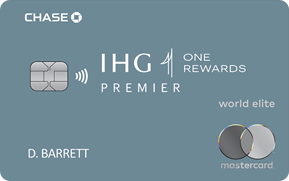
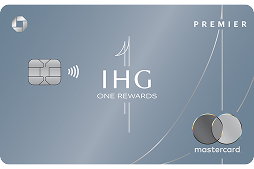
Thẻ Mỹ: cập nhật dòng thẻ IHG® sau đợt Chase® đổi ngày 01/10/2026
Thêm Premier Select; Traveler → IHG® One Rewards Credit Card, Premier Business →
IHG® One Rewards Business Credit Card (slug cũ redirect 308). Offer ra mắt có hạn
18/11/2026 nên cả bốn thẻ vào mục Elevated. Ảnh thẻ thiết kế mới.

diff --git a/src/lib/us-credit-cards.ts b/src/lib/us-credit-cards.ts
@@ -241,7 +241,7 @@ const VERIFIED_3 = "2026-09-24";
  * không in số welcome bonus cho browser tự động (xem AGENTS.md).
  */
 const REVERIFIED = "2026-09-30";
-/** Đợt thẻ thêm ngày 01/10/2026: ba thẻ IHG® và thẻ Aeroplan® của Chase®. */
+/** Đợt thẻ thêm ngày 01/10/2026: bốn thẻ IHG® (sau đợt đổi cùng ngày) và thẻ Aeroplan® của Chase®. */
 const VERIFIED_4 = "2026-10-01";
 
 const AMEX_FTF_27: CanadianAnswer = {
@@ -293,12 +293,20 @@ const IHG_FROM_CANADA: CanadianAnswer = {
 };
 
 /**
- * Điều kiện bonus in trên trang hai thẻ IHG® cá nhân (đọc 01/10/2026): không
- * đang giữ thẻ IHG® nào, chưa nhận bonus trong 24 tháng, thẻ doanh nghiệp
- * không tính. Hệ quả là giữ được một trong hai thẻ cá nhân, không phải cả hai.
+ * Điều kiện in trên trang thẻ Premier và thẻ không annual fee (đọc sau đợt đổi
+ * 01/10/2026): không đang giữ thẻ IHG® cá nhân nào, chưa nhận bonus trong 24
+ * tháng, thẻ doanh nghiệp không tính. Thẻ Premier Select chỉ ghi điều kiện về
+ * chính nó, nên có câu riêng.
  */
 const IHG_PERSONAL_WATCH_OUT =
-  "Thẻ này chịu luật 5/24 của Chase®. Chỉ mở được khi bạn không đang giữ thẻ IHG® cá nhân nào (Premier hoặc Traveler) và chưa nhận bonus thẻ IHG® cá nhân trong 24 tháng; thẻ doanh nghiệp không tính vào luật này.";
+  "Thẻ này chịu luật 5/24 của Chase®. Chỉ mở được khi bạn không đang giữ thẻ IHG® cá nhân nào (kể cả Premier Select) và chưa nhận bonus thẻ IHG® cá nhân trong 24 tháng; thẻ doanh nghiệp không tính vào luật này.";
+
+/**
+ * Hạn của welcome offer ra mắt cả dòng thẻ IHG® ("Apply by 11/18/2026" trên cả
+ * bốn trang Chase®). Qua ngày này bốn thẻ tự rời mục Elevated, nhưng số bonus
+ * vẫn phải rà tay.
+ */
+const IHG_LAUNCH_OFFER_ENDS = "2026-11-18";
 
 const BONVOY_FROM_CANADA: CanadianAnswer = {
   short: "Có",
@@ -1004,7 +1012,7 @@ const US_CARD_DATA: UsCardData[] = [
     annualFeeUsd: 795,
     rewardsCurrency: "Ultimate Rewards®",
     headline:
-      "Bản doanh nghiệp của Sapphire Reserve®: welcome bonus lớn nhất trong các thẻ Chase® ở đây, đổi lại mức chi tiêu cũng lớn nhất.",
+      "Bản doanh nghiệp của Sapphire Reserve®: 200,000 điểm Ultimate Rewards® khi mở thẻ, đổi lại mức chi tiêu lớn nhất trong các thẻ Chase® ở đây.",
     editorsTake:
       "200,000 điểm là con số rất lớn, nhưng phải chi $30,000 USD trong 6 tháng — chỉ hợp lý nếu doanh nghiệp bạn có dòng chi tiêu thật ở Mỹ. Chase® ghi đây là offer trở lại từ mức 150,000 điểm, không công bố ngày kết thúc.",
     keyBenefits: [
@@ -1308,28 +1316,70 @@ const US_CARD_DATA: UsCardData[] = [
     needsVerification: false,
   },
   {
+    slug: "ihg-one-rewards-premier-select",
+    name: "IHG® One Rewards Premier Select Credit Card",
+    issuerId: "chase",
+    category: "hotel",
+    business: false,
+    elevatedBonus: true,
+    cardImage: "/images/us-cards/ihg-one-rewards-premier-select.png",
+    welcomeBonus: "200,000 điểm IHG® One Rewards",
+    minimumSpendUsd: 5_000,
+    offerPeriod: "3 tháng đầu",
+    annualFeeUsd: 350,
+    rewardsCurrency: "IHG® One Rewards",
+    expiresAt: IHG_LAUNCH_OFFER_ENDS,
+    headline:
+      "Thẻ IHG® cao cấp ra mắt 01/10/2026: hạng Platinum Elite tự động, đêm miễn phí tới 60,000 điểm mỗi năm và 20 Elite Night Credits.",
+    editorsTake:
+      "Welcome bonus 200,000 điểm sau khi chi $5,000 USD trong 3 tháng là offer ra mắt, chỉ apply tới 18/11/2026. Annual fee $350 USD chỉ hợp lý nếu bạn dùng hết credit ăn uống ở khách sạn IHG® và credit hãng bay — credit ăn uống chỉ dùng ở khách sạn IHG®, credit hãng bay đòi mua vé thẳng với hãng từ $250 USD mỗi năm.",
+    keyBenefits: [
+      "12x điểm ở khách sạn IHG®; 6x ở nhà hàng và mọi chi tiêu du lịch khác (kể cả rideshare); 3x cho mọi chi tiêu khác",
+      "Đêm miễn phí mỗi năm gia hạn (khách sạn tới 60,000 điểm/đêm, bù thêm điểm được); chi $40,000 USD trong năm được thêm một đêm",
+      "Hạng Platinum Elite tự động; chi $25,000 USD trong năm lên Diamond Elite",
+      "Credit ăn uống tới $300 USD mỗi năm ở khách sạn IHG® ($75 USD mỗi quý) và credit hãng bay $200 USD khi mua vé thẳng với hãng từ $250 USD trong năm (tới 31/12/2027)",
+      "20 Elite Night Credits mỗi năm, thêm 2 cho mỗi $5,000 USD chi tiêu; đổi điểm 3 đêm liên tiếp được tặng đêm thứ 4",
+      "Credit phí Global Entry, TSA PreCheck® hoặc NEXUS™ tới $120 USD, 4 năm một lần; không phí giao dịch ngoại tệ",
+    ],
+    tags: ["Hotel", "Đêm miễn phí", "Không phí ngoại tệ"],
+    canada: {
+      itin: ITIN_REQUIRED,
+      usCreditHistory: HISTORY_REQUIRED,
+      usAddress: ADDRESS_REQUIRED,
+      foreignTransactionFee: NO_FTF,
+      pointsFromCanada: IHG_FROM_CANADA,
+      watchOut:
+        "Thẻ này chịu luật 5/24 của Chase®. Điều kiện in trên trang chỉ nói về chính thẻ này: không đang giữ nó và chưa nhận bonus của nó trong 24 tháng. Ngược lại, đang giữ thẻ này thì không mở được bản Premier hay bản không annual fee, vì hai thẻ đó đòi bạn không giữ thẻ IHG® cá nhân nào.",
+    },
+    applyUrl: "https://creditcards.chase.com/a1/ihg/PremierSelectNAEPQ410",
+    lastUpdated: VERIFIED_4,
+    verifiedOn: VERIFIED_4,
+    needsVerification: false,
+  },
+  {
     slug: "ihg-one-rewards-premier",
     name: "IHG® One Rewards Premier Credit Card",
     issuerId: "chase",
     category: "hotel",
     business: false,
-    elevatedBonus: false,
+    elevatedBonus: true,
     cardImage: "/images/us-cards/ihg-one-rewards-premier.png",
-    welcomeBonus: "140,000 điểm IHG® One Rewards",
+    welcomeBonus: "180,000 điểm IHG® One Rewards",
     minimumSpendUsd: 3_000,
     offerPeriod: "3 tháng đầu",
-    annualFeeUsd: 99,
+    annualFeeUsd: 150,
     rewardsCurrency: "IHG® One Rewards",
+    expiresAt: IHG_LAUNCH_OFFER_ENDS,
     headline:
-      "Thẻ khách sạn IHG® của Chase®: hạng Platinum Elite tự động và một đêm miễn phí mỗi năm gia hạn.",
+      "Thẻ IHG® bậc giữa của Chase®: hạng Gold Elite tự động, đêm miễn phí tới 50,000 điểm mỗi năm và 15 Elite Night Credits.",
     editorsTake:
-      "Welcome bonus 140,000 điểm sau khi chi $3,000 USD trong 3 tháng — Chase® quy ra tới 4 đêm ở khách sạn IHG®. Đêm miễn phí hằng năm cộng ưu đãi đổi 3 đêm tặng đêm thứ 4 thường bù được $99 USD annual fee nếu bạn ở IHG® ít nhất một lần mỗi năm.",
+      "Welcome bonus 180,000 điểm sau khi chi $3,000 USD trong 3 tháng — mức chi thấp so với số điểm, chỉ apply tới 18/11/2026. Thẻ mở mới từ 01/10/2026 có hạng Gold Elite (trước là Platinum) và annual fee $150 USD (trước là $99 USD; người đang giữ thẻ được điều chỉnh phí trong năm 2027), đổi lại đêm miễn phí hằng năm nâng lên 50,000 điểm.",
     keyBenefits: [
-      "Đêm miễn phí mỗi năm gia hạn (khách sạn tới 40,000 điểm/đêm, bù thêm điểm được cho khách sạn đắt hơn)",
-      "Hạng Platinum Elite tự động; chi $40,000 USD trong năm lên Diamond Elite",
-      "Đổi điểm 3 đêm liên tiếp được tặng đêm thứ 4",
-      "10x điểm ở khách sạn IHG®; 5x ở du lịch, nhà hàng và trạm xăng; 3x cho mọi chi tiêu khác",
-      "Chi $20,000 USD trong năm được $100 USD credit và 10,000 điểm",
+      "10x điểm ở khách sạn IHG®; 5x ở vé máy bay mua thẳng với hãng, thuê xe, nhà hàng, siêu thị và trạm xăng; 3x cho mọi chi tiêu khác",
+      "Đêm miễn phí mỗi năm gia hạn (khách sạn tới 50,000 điểm/đêm, bù thêm điểm được)",
+      "Hạng Gold Elite tự động; chi $15,000 USD trong năm lên Platinum Elite, $40,000 USD lên Diamond Elite",
+      "Credit ăn uống tới $100 USD mỗi năm ở khách sạn IHG® ($25 USD mỗi quý) và credit hãng bay $100 USD khi mua vé thẳng với hãng từ $250 USD trong năm (tới 31/12/2027)",
+      "15 Elite Night Credits mỗi năm, thêm 2 cho mỗi $5,000 USD chi tiêu; đổi điểm 3 đêm liên tiếp được tặng đêm thứ 4",
       "Credit phí Global Entry, TSA PreCheck® hoặc NEXUS™ tới $120 USD, 4 năm một lần; không phí giao dịch ngoại tệ",
     ],
     tags: ["Hotel", "Đêm miễn phí", "Không phí ngoại tệ"],
@@ -1341,33 +1391,34 @@ const US_CARD_DATA: UsCardData[] = [
       pointsFromCanada: IHG_FROM_CANADA,
       watchOut: IHG_PERSONAL_WATCH_OUT,
     },
-    applyUrl: "https://creditcards.chase.com/travel-credit-cards/ihg-rewards-club/premier",
+    applyUrl: "https://creditcards.chase.com/a1/ihg/PremierNAEPQ410",
     lastUpdated: VERIFIED_4,
     verifiedOn: VERIFIED_4,
     needsVerification: false,
   },
   {
-    slug: "ihg-one-rewards-traveler",
-    name: "IHG® One Rewards Traveler Credit Card",
+    slug: "ihg-one-rewards",
+    name: "IHG® One Rewards Credit Card",
     issuerId: "chase",
     category: "hotel",
     business: false,
-    elevatedBonus: false,
-    cardImage: "/images/us-cards/ihg-one-rewards-traveler.png",
-    welcomeBonus: "80,000 điểm IHG® One Rewards",
+    elevatedBonus: true,
+    cardImage: "/images/us-cards/ihg-one-rewards.png",
+    welcomeBonus: "125,000 điểm IHG® One Rewards",
     minimumSpendUsd: 2_000,
     offerPeriod: "3 tháng đầu",
     annualFeeUsd: 0,
     rewardsCurrency: "IHG® One Rewards",
+    expiresAt: IHG_LAUNCH_OFFER_ENDS,
     headline:
-      "Thẻ IHG® không annual fee của Chase®: hạng Silver Elite tự động và tới 17x điểm khi ở khách sạn IHG®.",
+      "Thẻ IHG® không annual fee của Chase® (trước 01/10/2026 tên là Traveler): hạng Silver Elite tự động và 5 Elite Night Credits mỗi năm.",
     editorsTake:
-      "Welcome bonus 80,000 điểm sau khi chi $2,000 USD trong 3 tháng, không tốn annual fee. Đổi lại không có đêm miễn phí hằng năm — nếu bạn ở IHG® đều đặn thì cân nhắc bản Premier $99 USD, vì không mở được thẻ này khi đang giữ bản Premier (và ngược lại).",
+      "Welcome bonus 125,000 điểm sau khi chi $2,000 USD trong 3 tháng, không tốn annual fee, chỉ apply tới 18/11/2026. Đổi lại không có đêm miễn phí hằng năm, và từ 2027 ưu đãi đổi 3 đêm tặng đêm thứ 4 chỉ mở khi chi $5,000 USD trong một năm (dùng được hết năm đó và cả năm sau).",
     keyBenefits: [
-      "5x điểm ở khách sạn IHG®; 3x ở nhà hàng, tiện ích, một số dịch vụ streaming và trạm xăng; 2x cho mọi chi tiêu khác",
-      "Hạng Silver Elite tự động; chi $20,000 USD trong năm lên Gold Elite",
-      "Đổi điểm 3 đêm liên tiếp được tặng đêm thứ 4",
-      "Chi $10,000 USD trong năm được 10,000 điểm",
+      "5x điểm ở khách sạn IHG®; 3x ở nhà hàng, siêu thị và trạm xăng; 2x cho mọi chi tiêu khác",
+      "Hạng Silver Elite tự động; chi $15,000 USD trong năm lên Gold Elite",
+      "5 Elite Night Credits mỗi năm; chi $15,000 USD trong năm được 10,000 điểm",
+      "Đổi điểm 3 đêm liên tiếp được tặng đêm thứ 4 (từ 2027: chi $5,000 USD trong năm để mở cho hết năm đó và cả năm sau)",
       "Không annual fee, không phí giao dịch ngoại tệ",
     ],
     tags: ["Hotel", "Không annual fee", "Không phí ngoại tệ"],
@@ -1379,33 +1430,35 @@ const US_CARD_DATA: UsCardData[] = [
       pointsFromCanada: IHG_FROM_CANADA,
       watchOut: IHG_PERSONAL_WATCH_OUT,
     },
-    applyUrl: "https://creditcards.chase.com/travel-credit-cards/ihg-rewards-club/traveler",
+    applyUrl: "https://creditcards.chase.com/a1/ihg/OneRewardsNAEPQ410",
     lastUpdated: VERIFIED_4,
     verifiedOn: VERIFIED_4,
     needsVerification: false,
   },
   {
-    slug: "ihg-one-rewards-premier-business",
-    name: "IHG® One Rewards Premier Business Credit Card",
+    slug: "ihg-one-rewards-business",
+    name: "IHG® One Rewards Business Credit Card",
     issuerId: "chase",
     category: "hotel",
     business: true,
-    elevatedBonus: false,
-    cardImage: "/images/us-cards/ihg-one-rewards-premier-business.png",
-    welcomeBonus: "140,000 điểm IHG® One Rewards",
-    minimumSpendUsd: 4_000,
+    elevatedBonus: true,
+    cardImage: "/images/us-cards/ihg-one-rewards-business.png",
+    welcomeBonus: "190,000 điểm IHG® One Rewards",
+    minimumSpendUsd: 5_000,
     offerPeriod: "3 tháng đầu",
-    annualFeeUsd: 99,
+    annualFeeUsd: 200,
     rewardsCurrency: "IHG® One Rewards",
+    expiresAt: IHG_LAUNCH_OFFER_ENDS,
     headline:
-      "Bản doanh nghiệp của thẻ IHG® Premier: cùng hạng Platinum Elite và đêm miễn phí hằng năm, annual fee $99 USD.",
+      "Thẻ IHG® doanh nghiệp của Chase® (trước 01/10/2026 tên là Premier Business): hạng Platinum Elite tự động và đêm miễn phí tới 50,000 điểm mỗi năm.",
     editorsTake:
-      "Welcome bonus 140,000 điểm như bản cá nhân nhưng đòi chi $4,000 USD trong 3 tháng. Điều kiện 24 tháng in trên hai thẻ IHG® cá nhân ghi rõ không tính thẻ doanh nghiệp, và trang thẻ này không ghi điều kiện tương tự.",
+      "Welcome bonus 190,000 điểm sau khi chi $5,000 USD trong 3 tháng, chỉ apply tới 18/11/2026. Giữ hạng Platinum Elite mà bản Premier cá nhân vừa mất, và điều kiện \"không giữ thẻ IHG® cá nhân nào\" của hai thẻ cá nhân ghi rõ không tính thẻ doanh nghiệp.",
     keyBenefits: [
-      "Đêm miễn phí mỗi năm gia hạn (khách sạn tới 40,000 điểm/đêm, bù thêm điểm được cho khách sạn đắt hơn)",
-      "Hạng Platinum Elite tự động; đổi điểm 3 đêm liên tiếp được tặng đêm thứ 4",
-      "10x điểm ở khách sạn IHG®; 5x ở du lịch, nhà hàng, trạm xăng và một số chi tiêu doanh nghiệp; 3x cho mọi chi tiêu khác",
-      "Chi $20,000 USD trong năm được $100 USD credit và 10,000 điểm",
+      "10x điểm ở khách sạn IHG®; 5x ở vé máy bay mua thẳng với hãng, thuê xe, nhà hàng, quảng cáo mạng xã hội/tìm kiếm và trạm xăng; 3x cho mọi chi tiêu khác",
+      "Đêm miễn phí mỗi năm gia hạn (khách sạn tới 50,000 điểm/đêm); chi $60,000 USD trong năm được thêm một đêm",
+      "Hạng Platinum Elite tự động; từ 2027, chi $50,000 USD trong năm lên Diamond Elite",
+      "Credit ăn uống tới $100 USD mỗi năm ở khách sạn IHG®, credit hãng bay $100 USD khi mua vé thẳng với hãng từ $250 USD trong năm (tới 31/12/2027) và credit Expensify tới $100 USD mỗi năm",
+      "15 Elite Night Credits mỗi năm, thêm 2 cho mỗi $5,000 USD chi tiêu; đổi điểm 3 đêm liên tiếp được tặng đêm thứ 4",
       "Credit phí Global Entry, TSA PreCheck® hoặc NEXUS™ tới $120 USD, 4 năm một lần; không phí giao dịch ngoại tệ",
     ],
     tags: ["Hotel", "Business", "Không phí ngoại tệ"],
@@ -1417,7 +1470,7 @@ const US_CARD_DATA: UsCardData[] = [
       pointsFromCanada: IHG_FROM_CANADA,
       watchOut: "Thẻ doanh nghiệp nên không tính vào 5/24, nhưng Chase® vẫn xét 5/24 khi duyệt.",
     },
-    applyUrl: "https://creditcards.chase.com/business-credit-cards/IHG/business-premier",
+    applyUrl: "https://creditcards.chase.com/a1/ihg/BizNAEPQ410",
     lastUpdated: VERIFIED_4,
     verifiedOn: VERIFIED_4,
     needsVerification: false,

diff --git a/next.config.ts b/next.config.ts
@@ -80,6 +80,18 @@ const nextConfig: NextConfig = {
         destination: "/award-flight-finder",
         permanent: true,
       },
+      // Chase® renamed two IHG® cards on 01/10/2026, hours after they went
+      // live here under their old names (Traveler, Premier Business).
+      {
+        source: "/us-credit-cards/ihg-one-rewards-traveler",
+        destination: "/us-credit-cards/ihg-one-rewards",
+        permanent: true,
+      },
+      {
+        source: "/us-credit-cards/ihg-one-rewards-premier-business",
+        destination: "/us-credit-cards/ihg-one-rewards-business",
+        permanent: true,
+      },
     ];
   },
 };

diff --git a/AGENTS.md b/AGENTS.md
@@ -1243,13 +1243,17 @@ nghiệp phủ bốn thẻ Ink + Sapphire Reserve for Business℠, Capital One®
 Venture X/Venture — thẻ khác giữ link công khai (`sourceUrl` giữ trang sản phẩm
 khi `applyUrl` là link ref). Các đoạn bên dưới viết lúc cờ còn tắt.
 
-**Thêm 01/10/2026: ba thẻ IHG® + thẻ Aeroplan® của Chase®** (40 thẻ, 37 đang hiện).
-Tác giả xin "4 thẻ IHG®" nhưng Chase® chỉ còn bán ba (trang brand ghi "IHG® (3)":
-Premier, Traveler, Premier Business). Thẻ Aeroplan® ghi "OUR BEST OFFER EVER" mà
-không có ngày hết hạn → KHÔNG bật elevated. Bonus hai nấc nên `welcomeBonus` ghi
-nấc đầu (75,000 điểm ↔ $4,000 USD) kèm "(tổng tới 115,000)", để dòng điều kiện
-chi tiêu không hứa 115,000 điểm cho $4,000 USD. Câu "mức chi tiêu cao nhất trong
-các thẻ cá nhân" của Amex Platinum đã bỏ: nấc hai của thẻ Aeroplan® đòi $20,000 USD.
+**Thêm 01/10/2026: bốn thẻ IHG® + thẻ Aeroplan® của Chase®** (41 thẻ, 38 đang hiện).
+Chase® đổi cả dòng thẻ IHG® đúng ngày này: thêm Premier Select ($350 USD), Traveler
+đổi tên thành "IHG® One Rewards Credit Card", Premier Business thành "IHG® One
+Rewards Business Credit Card" (slug cũ redirect 308 trong `next.config.ts`).
+Offer ra mắt chỉ có trên trang `/a1/ihg/*` (trang sản phẩm cũ còn số cũ vài giờ đầu)
+nên `applyUrl` trỏ về đó; cả bốn ghi "Apply by 11/18/2026" → elevated, hạn chung
+`IHG_LAUNCH_OFFER_ENDS`. Ảnh thẻ mới chỉ có 254–500px. Thẻ Aeroplan® ghi "OUR BEST
+OFFER EVER" mà không có ngày → KHÔNG elevated; bonus hai nấc nên `welcomeBonus`
+ghi nấc đầu (75,000 ↔ $4,000 USD) kèm "(tổng tới 115,000)". Hai câu "nhất" đã sửa:
+Amex Platinum (nấc hai thẻ Aeroplan® đòi $20,000 USD) và Sapphire Reserve® for
+Business (Premier Select cũng 200,000 điểm).
 
 **Canh offer thẻ Mỹ (30/09/2026).** Hai tầng, vì chỉ Chase® và Bilt in offer vào
 HTML mà `fetch` đọc được — American Express®, Capital One®, Bank of America®,
